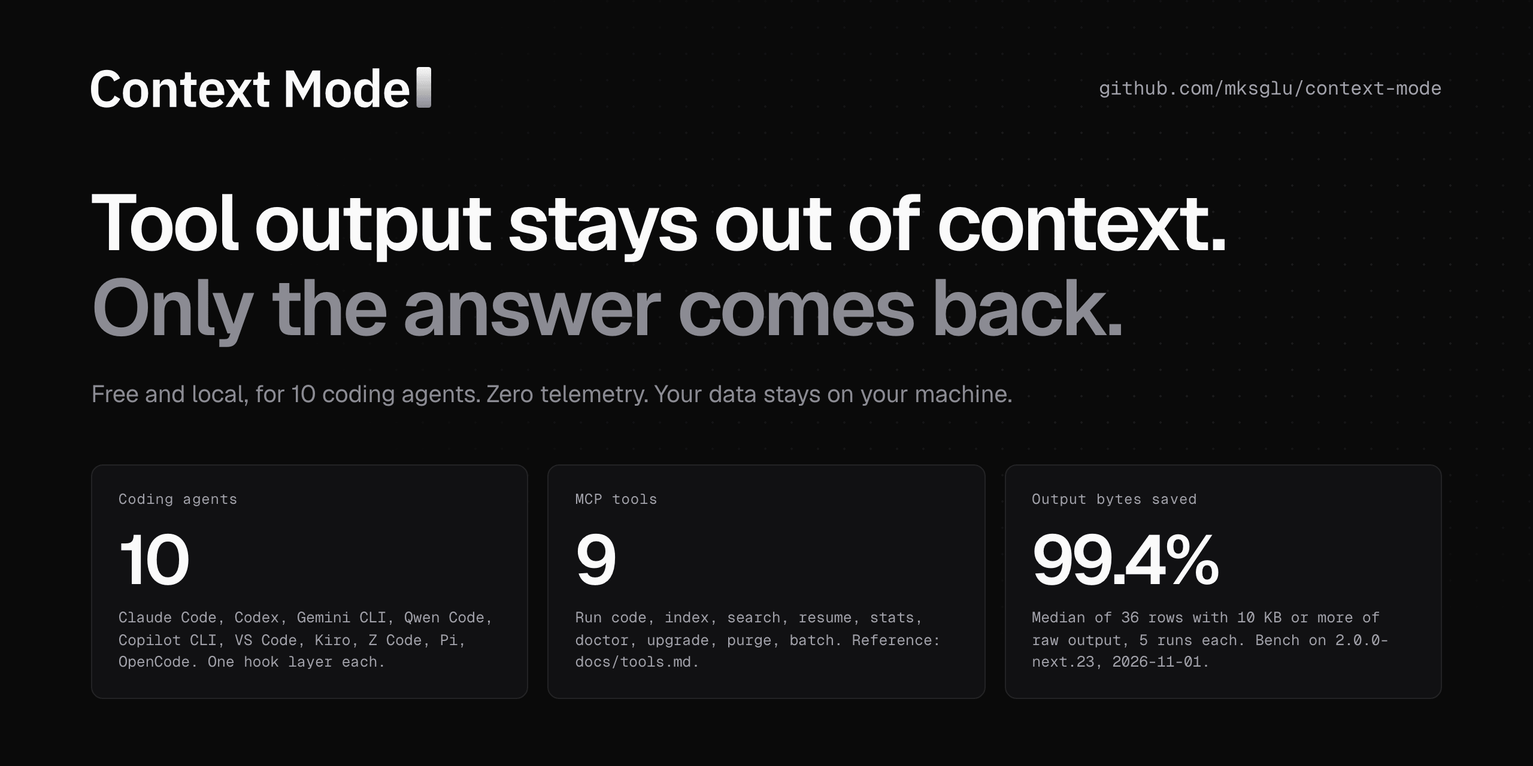
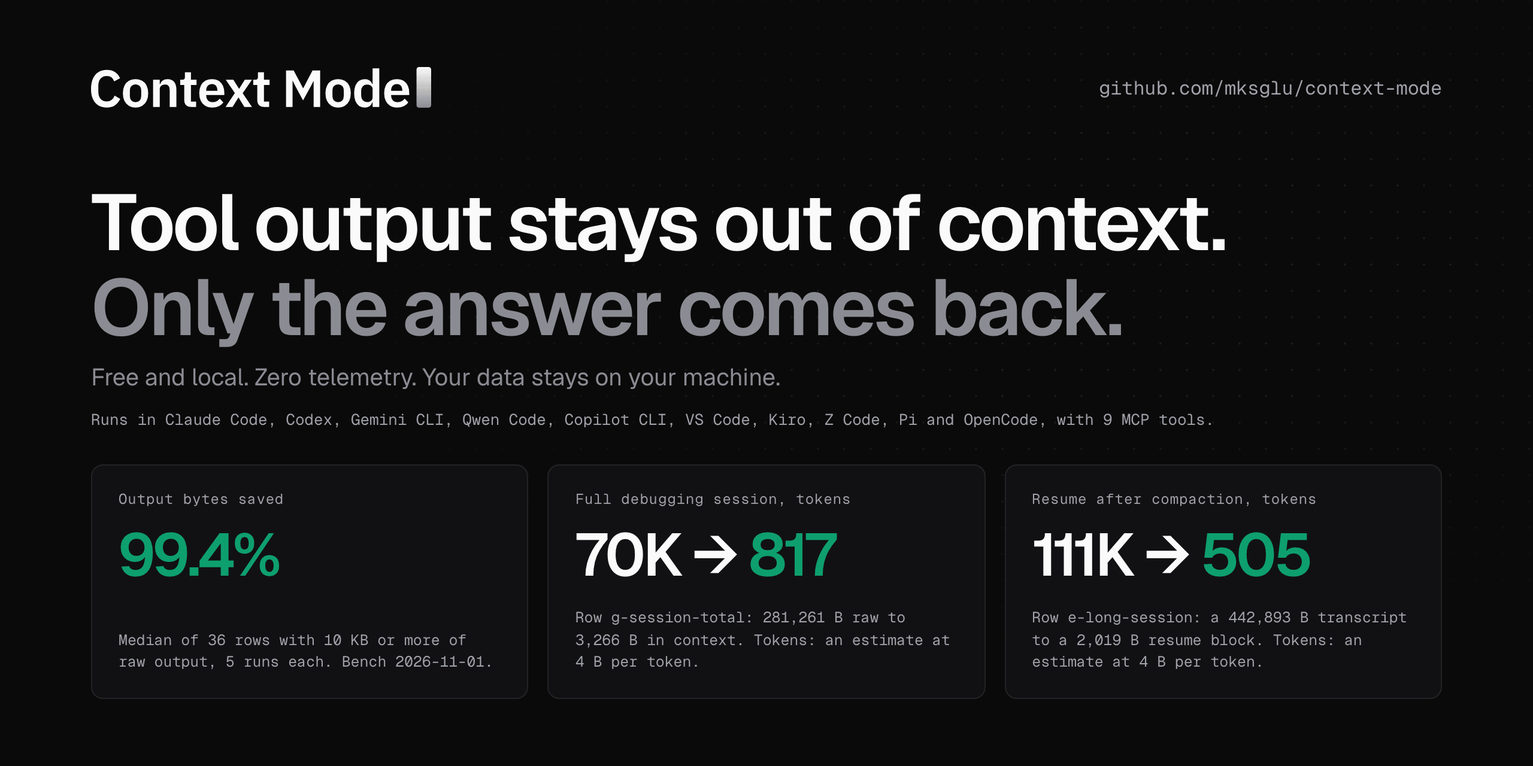
docs(readme): guide links go to contextmode.ai, 29 links out, measured hero tiles (D-README-LINKS-2, D-README-HERO-2)
Every docs link points to the published guides under
contextmode.ai/docs/engine with UTM tags, one per topic. Per-agent
Guide links, repo switch links, the Community docs line and per-row
table links go; each table gets one source line. build/readme-links.mjs
caps links out at README_MAX_LINKS (30) and fails on any repo docs page.

Links out: 98 -> 29 (114 -> 45 with page anchors); repo docs links 22 -> 0.

Hero: three measured tiles from bench/results/2026-11-01-darwin-arm64.json
(99.4% median of 36 rows; g-session-total 70K -> 817 tokens;
e-long-session 111K -> 505 tokens, 4 B per token estimate). Agents and
tools move to one small line. PNG: light 69,387 -> 78,377 B,
dark 67,555 -> 75,893 B.

diff --git a/docs/assets/readme/src/hero.html b/docs/assets/readme/src/hero.html
@@ -6,22 +6,24 @@
 .nav{position:absolute;left:76px;right:76px;top:56px;display:flex;align-items:center;justify-content:space-between}
 .url{font-family:var(--mono);font-size:16px;color:var(--muted)}
 .h1{position:absolute;left:76px;top:150px;font-size:66px}
-.lead{position:absolute;left:76px;top:314px;font-size:20px;line-height:1.5;color:var(--fg2)}
+.lead{position:absolute;left:76px;top:300px;font-size:20px;line-height:1.5;color:var(--fg2)}
 .tiles{position:absolute;left:76px;right:76px;bottom:56px;display:grid;grid-template-columns:repeat(3,1fr);gap:16px}
 .tile{background:var(--card);border:1px solid var(--card-b);border-radius:10px;padding:20px 22px;height:196px;display:flex;flex-direction:column}
 .k{font-family:var(--mono);font-size:12px;letter-spacing:.04em;color:var(--muted)}
-.n{font-weight:600;font-size:58px;letter-spacing:-.045em;line-height:1;color:var(--fg);margin-top:14px}
+.n{font-weight:600;font-size:50px;white-space:nowrap;letter-spacing:-.045em;line-height:1;color:var(--fg);margin-top:14px}
 .n i{font-style:normal;color:var(--save)}
+.small{position:absolute;left:76px;right:76px;top:342px;font-family:var(--mono);font-size:13px;color:var(--muted)}
 .r{font-family:var(--mono);font-size:12.5px;line-height:1.5;color:var(--muted);margin-top:auto}
 </style></head><body>
 <main class="art" id="art"><div class="dots"></div>
 <div class="nav"><img class="wm" id="wm" alt="Context Mode"><span class="url">github.com/mksglu/context-mode</span></div>
 <div class="h h1">Tool output stays out of context.<br><em>Only the answer comes back.</em></div>
-<div class="lead">Free and local, for 10 coding agents. Zero telemetry. Your data stays on your machine.</div>
+<div class="lead">Free and local. Zero telemetry. Your data stays on your machine.</div>
+<div class="small">Runs in Claude Code, Codex, Gemini CLI, Qwen Code, Copilot CLI, VS Code, Kiro, Z Code, Pi and OpenCode, with 9 MCP tools.</div>
 <div class="tiles">
- <div class="tile" data-box><div class="k">Coding agents</div><div class="n">10</div><div class="r">Claude Code, Codex, Gemini CLI, Qwen Code, Copilot CLI, VS Code, Kiro, Z Code, Pi, OpenCode. One hook layer each.</div></div>
- <div class="tile" data-box><div class="k">MCP tools</div><div class="n">9</div><div class="r">Run code, index, search, resume, stats, doctor, upgrade, purge, batch. Reference: docs/tools.md.</div></div>
- <div class="tile" data-box><div class="k">Output bytes saved</div><div class="n">99.4%</div><div class="r">Median of 36 rows with 10 KB or more of raw output, 5 runs each. Bench on 2.0.0-next.23, 2026-11-01.</div></div>
+ <div class="tile" data-box><div class="k">Output bytes saved</div><div class="n"><i>99.4%</i></div><div class="r">Median of 36 rows with 10 KB or more of raw output, 5 runs each. Bench 2026-11-01.</div></div>
+ <div class="tile" data-box><div class="k">Full debugging session, tokens</div><div class="n">70K → <i>817</i></div><div class="r">Row g-session-total: 281,261 B raw to 3,266 B in context. Tokens: an estimate at 4 B per token.</div></div>
+ <div class="tile" data-box><div class="k">Resume after compaction, tokens</div><div class="n">111K → <i>505</i></div><div class="r">Row e-long-session: a 442,893 B transcript to a 2,019 B resume block. Tokens: an estimate at 4 B per token.</div></div>
 </div></main>
 <script>document.getElementById('wm').src='brand/wordmark-on-'+T+'.svg';</script>
 </body></html>

diff --git a/README.md b/README.md
@@ -10,7 +10,7 @@
 
 <picture>
   <source media="(prefers-color-scheme: dark)" srcset="docs/assets/readme/hero-dark.png">
-  <img src="docs/assets/readme/hero-light.png" alt="Context Mode plugin: free and local, for 10 coding agents, zero telemetry, the plugin keeps your data on your machine. 99.4% of output bytes saved (median of 36 rows with 10 KB or more of raw output).">
+  <img src="docs/assets/readme/hero-light.png" alt="Context Mode plugin: free and local, zero telemetry, the plugin keeps your data on your machine. Bench of 2026-11-01: 99.4% of output bytes saved (median of 36 rows with 10 KB or more of raw output). A full debugging session (row g-session-total): 281,261 B raw to 3,266 B in context, about 70K to 817 tokens (an estimate at 4 B per token). Resume after compaction (row e-long-session): a 442,893 B transcript to a 2,019 B block, about 111K to 505 tokens (an estimate). Runs in 10 coding agents with 9 MCP tools.">
 </picture>
 
 **Contents:** [Why](#why) · [Adoption](#adoption-stars-and-npm-downloads) · [Install](#install) · [Try it](#try-it) · [Use cases](#use-cases) · [Benchmarks](#benchmarks) · [How it works](#how-it-works) · [Tools](#tools) · [Security and privacy](#security-and-privacy) · [Context Mode Gateway](#context-mode-gateway) · [License](#license) · [Community](#community)
@@ -34,7 +34,7 @@ The Context Mode plugin runs that work in a local sandbox, keeps the full output
 <td width="50%"><a href="https://contextmode.ai/open-source/stats?utm_source=github&utm_medium=readme&utm_content=adoption#daily"><picture><source media="(prefers-color-scheme: dark)" srcset="docs/assets/readme/npm-downloads-dark.png"><img src="docs/assets/readme/npm-downloads-light.png" alt="Area chart of npm downloads per day for context-mode, the last 90 days. A daily job redraws it."></picture></a></td>
 </tr></table>
 
-Open the [interactive chart](https://contextmode.ai/open-source/stats?utm_source=github&utm_medium=readme&utm_content=adoption#daily) and point at a bar to read its value. Tabs there show days, weeks, months and years. Stars come from the GitHub GraphQL API (`starredAt`); npm downloads come from `api.npmjs.org/downloads/range`. The total up to 2026-10-29 is 683K npm downloads ([stats.json](stats.json) keeps a daily copy). A daily job redraws both charts.
+Open the [interactive chart](https://contextmode.ai/open-source/stats?utm_source=github&utm_medium=readme&utm_content=adoption#daily) and point at a bar to read its value. Tabs there show days, weeks, months and years. Stars come from the GitHub GraphQL API (`starredAt`); npm downloads come from `api.npmjs.org/downloads/range`. The total up to 2026-10-29 is 683K npm downloads (`stats.json` keeps a daily copy). A daily job redraws both charts.
 
 - **Hacker News.** "MCP server that reduces Claude Code context consumption by 98%" reached the front page with 570+ points and 107 comments on 2026-02-28 ([thread](https://news.ycombinator.com/item?id=47193064)).
 - **GitHub Trending.** A bot that watches GitHub Trending logged the repo there on 14 days from 2026-04-24 to 2026-10-17 ([uibm/trending-watcher](https://github.com/uibm/trending-watcher/issues?q=%22mksglu%2Fcontext-mode%22)).
@@ -61,7 +61,7 @@ claude plugin marketplace add mksglu/context-mode#release
 claude plugin install context-mode@context-mode
 ```
 Update: `claude plugin update context-mode@context-mode`. Check: `context-mode doctor --agents claude-code`. Remove: `context-mode setup --remove --agents claude-code`.
-Hooks: yes (package) · MCP: yes · Skills: yes · Guide: [docs/install/claude-code.md](docs/install/claude-code.md#install)
+Hooks: yes (package) · MCP: yes · Skills: yes
 </details>
 <details open id="install-codex"><summary><b>Codex</b></summary>
 
@@ -71,7 +71,7 @@ codex plugin add context-mode@context-mode
 ```
 Then run `context-mode setup --agents codex` once: it marks the plugin hooks as trusted in the Codex `config.toml`, so Codex runs them.
 Update: `codex plugin marketplace upgrade context-mode`. Check: `context-mode doctor --agents codex`. Remove: `context-mode setup --remove --agents codex`.
-Hooks: yes (hook file) · MCP: yes · Skills: yes · Guide: [docs/install/codex.md](docs/install/codex.md#install)
+Hooks: yes (hook file) · MCP: yes · Skills: yes
 </details>
 <details open id="install-gemini"><summary><b>Gemini CLI</b></summary>
 
@@ -79,7 +79,7 @@ Hooks: yes (hook file) · MCP: yes · Skills: yes · Guide: [docs/install/codex.
 gemini extensions install https://github.com/mksglu/context-mode --ref release
 ```
 Update: `gemini extensions update context-mode`. Check: `context-mode doctor --agents gemini`. Remove: `context-mode setup --remove --agents gemini`, then `gemini extensions uninstall context-mode`.
-Hooks: yes (package) · MCP: yes · Skills: yes · Guide: [docs/install/gemini.md](docs/install/gemini.md#install)
+Hooks: yes (package) · MCP: yes · Skills: yes
 </details>
 <details open id="install-qwen"><summary><b>Qwen Code</b></summary>
 
@@ -87,7 +87,7 @@ Hooks: yes (package) · MCP: yes · Skills: yes · Guide: [docs/install/gemini.m
 qwen extensions install https://github.com/mksglu/context-mode:context-mode --ref release
 ```
 Update: `qwen extensions update context-mode`. Check: `context-mode doctor --agents qwen`. Remove: `context-mode setup --remove --agents qwen`, then `qwen extensions uninstall context-mode`.
-Hooks: yes (package) · MCP: yes · Skills: yes · Guide: [docs/install/qwen.md](docs/install/qwen.md#install)
+Hooks: yes (package) · MCP: yes · Skills: yes
 </details>
 <details open id="install-pi"><summary><b>Pi</b></summary>
 
@@ -95,7 +95,7 @@ Hooks: yes (package) · MCP: yes · Skills: yes · Guide: [docs/install/qwen.md]
 pi install npm:context-mode@next
 ```
 Update: `pi update --extensions`. Check: `context-mode doctor --agents pi`. Remove: `context-mode setup --remove --agents pi`.
-Hooks: yes (the plugin's own event handlers) · MCP: ctx tools built into the plugin · Skills: yes · Guide: [docs/install/pi.md](docs/install/pi.md#install)
+Hooks: yes (the plugin's own event handlers) · MCP: ctx tools built into the plugin · Skills: yes
 </details>
 <details open id="install-opencode"><summary><b>OpenCode</b></summary>
 
@@ -103,7 +103,7 @@ Hooks: yes (the plugin's own event handlers) · MCP: ctx tools built into the pl
 opencode plugin add context-mode@next
 ```
 Update: `opencode plugin update`. Check: `context-mode doctor --agents opencode`. Remove: `opencode plugin remove context-mode@next`, then `context-mode setup --remove --agents opencode`.
-Hooks: yes (the plugin's own event handlers) · MCP: yes · Skills: yes · Guide: [docs/install/opencode.md](docs/install/opencode.md#install)
+Hooks: yes (the plugin's own event handlers) · MCP: yes · Skills: yes
 </details>
 <details open id="install-copilot-cli"><summary><b>Copilot CLI</b></summary>
 
@@ -112,7 +112,7 @@ npm i -g context-mode@next
 context-mode setup --agents copilot-cli
 ```
 Update: `context-mode upgrade`. Check: `context-mode doctor --agents copilot-cli`. Remove: `context-mode setup --remove --agents copilot-cli`.
-Hooks: yes (hook file) · MCP: yes · Skills: yes · Guide: [docs/install/copilot-cli.md](docs/install/copilot-cli.md#install)
+Hooks: yes (hook file) · MCP: yes · Skills: yes
 </details>
 <details open id="install-kiro"><summary><b>Kiro</b></summary>
 
@@ -121,7 +121,7 @@ npm i -g context-mode@next
 context-mode setup --agents kiro
 ```
 Update: `context-mode upgrade`. Check: `context-mode doctor --agents kiro`. Remove: `context-mode setup --remove --agents kiro`.
-Hooks: yes (hook file) · MCP: yes · Skills: yes · Guide: [docs/install/kiro.md](docs/install/kiro.md#install)
+Hooks: yes (hook file) · MCP: yes · Skills: yes
 </details>
 <details open id="install-vscode"><summary><b>VS Code (Copilot)</b></summary>
 
@@ -130,7 +130,7 @@ npm i -g context-mode@next
 context-mode setup --agents vscode
 ```
 Update: `context-mode upgrade`. Check: `context-mode doctor --agents vscode`. Remove: `context-mode setup --remove --agents vscode`.
-Hooks: yes (hook file) · MCP: yes · Skills: yes · Guide: [docs/install/vscode.md](docs/install/vscode.md#install)
+Hooks: yes (hook file) · MCP: yes · Skills: yes
 </details>
 <details open id="install-zcode"><summary><b>ZCode</b></summary>
 
@@ -139,10 +139,10 @@ npm i -g context-mode@next
 context-mode setup --agents zcode
 ```
 Update: `context-mode upgrade`. Check: `context-mode doctor --agents zcode`. Remove: `context-mode setup --remove --agents zcode`.
-Hooks: yes (hook file) · MCP: yes · Skills: yes · Guide: [docs/install/zcode.md](docs/install/zcode.md#install)
+Hooks: yes (hook file) · MCP: yes · Skills: yes
 </details>
 
-Already installed from GitHub on `main`? Each agent page has the steps to switch to the `release` ref: see "Already installed from GitHub?" in [Claude Code](docs/install/claude-code.md#already-installed-from-github), [Codex](docs/install/codex.md#already-installed-from-github), [Gemini CLI](docs/install/gemini.md#already-installed-from-github) and [Qwen Code](docs/install/qwen.md#already-installed-from-github).
+Already installed from GitHub on `main`? Switch Claude Code, Codex, Gemini CLI or Qwen Code to the `release` ref with the steps in [Already installed from GitHub?](https://contextmode.ai/docs/engine/install?utm_source=github&utm_medium=readme&utm_content=install-switch#already-installed-from-github).
 
 The npm route works for every agent:
 
@@ -152,7 +152,7 @@ context-mode setup
 ```
 
 `context-mode setup` is also the repair. It shows a plan, saves your earlier config, then applies the plan; when a step ends early, it restores the saved config.
-Uninstall: `context-mode setup --remove && npm rm -g context-mode`. Details: [docs/install/README.md](docs/install/README.md).
+Uninstall: `context-mode setup --remove && npm rm -g context-mode`.
 
 Restart the agent, then run `context-mode doctor` (or `/ctx-doctor` in the agent). Each check prints PASS or a fix command.
 
@@ -160,12 +160,12 @@ Every agent gets hooks, the MCP server and the plugin skills (files in `skills/`
 Hooks reach each agent in one of three ways: in the plugin package (Claude Code, Gemini CLI, Qwen Code), in a hook file (Codex, Copilot CLI, Kiro, VS Code, ZCode), or in a plugin inside the agent (OpenCode, Pi).
 We ran the real binary of each agent with the plugin hook: Claude Code, Codex, Gemini CLI, Qwen Code, Pi, OpenCode, Copilot CLI and ZCode. Each run used a clean temp home and a local test model, on 2.0.0-next.15.
 For VS Code and Kiro, the check covers the hook setup: VS Code runs the hook command with the documented payload, and kiro-cli 2.35.2 loads all 6 hook entries.
-CI runs setup, doctor, a hook and an MCP handshake for all 10 agents from the packed package on Linux, macOS and Windows. Record: [docs/architecture/release/HOOKS-FIRE.md](docs/architecture/release/HOOKS-FIRE.md).
+CI runs setup, doctor, a hook and an MCP handshake for all 10 agents from the packed package on Linux, macOS and Windows. Record: `docs/architecture/release/HOOKS-FIRE.md`.
 
 ## Try it
 
 Paste one of these prompts into your agent after the install. Each one ran once, live, in Claude Code 2.1.312, and its answer matched the source data ([evidence and rerun steps](bench/evidence/try-it-2026-11-02/README.md)). The headline numbers in [Benchmarks](#benchmarks) use the median of 5 runs. Other agents do the same job with the same tools: `ctx_execute`, `ctx_index` and `ctx_search`.
-Then run `/ctx-stats` in your agent to see how much output stayed out of the context. Every agent gets this command with the plugin skills ([skills/ctx-stats](skills/ctx-stats/SKILL.md)).
+Then run `/ctx-stats` in your agent to see how much output stayed out of the context. Every agent gets this command with the plugin skills (`skills/ctx-stats`).
 ```text
 On https://react.dev/reference/react/useEffect, show me the example that connects to a chat server and cleans up, and list the rules for the dependency array.
 ```
@@ -185,30 +185,32 @@ The hook sends WebFetch to the sandbox, and the agent reads ten stories from the
 
 ## Use cases
 
-Real tool output from public projects, run through Context Mode. Bench of 2026-11-01 on 2.0.0-next.23 (commit 16a4bcc5), median of 5 runs ([bench/results/2026-11-01-darwin-arm64.json](bench/results/2026-11-01-darwin-arm64.json)); each source is in [bench/fixtures/data/SOURCE.md](bench/fixtures/data/SOURCE.md).
+Real tool output from public projects, run through Context Mode. Bench of 2026-11-01 on 2.0.0-next.23 (commit 16a4bcc5), median of 5 runs.
 
 | What you do | Tool | Raw | Reaches the context | Saved |
 |---|---|---:|---:|---:|
-| [Read a browser page](bench/a-sandbox/README.md#a-devtools-mcp-snapshot) | Chrome DevTools MCP `take_snapshot` | 136,514 B | 463 B | 99.7% |
-| [List 40 issues](bench/a-sandbox/README.md#a-gh-issue-list-vite) | GitHub CLI `gh issue list --json` | 182,943 B | 850 B | 99.5% |
-| [List 25 pull requests with checks](bench/a-sandbox/README.md#a-gh-pr-list-vite) | GitHub CLI `gh pr list --json` | 195,471 B | 776 B | 99.6% |
-| [Look up library docs](bench/a-sandbox/README.md#a-context7-query-docs-vite) | Context7 `query-docs` | 6,917 B | 473 B | 93.2% |
-| [Run 1,106 tests](bench/a-sandbox/README.md#a-vitest-run-vite) | Vitest `vitest run --reporter=verbose` | 62,909 B | 429 B | 99.3% |
-| [Lint a source folder](bench/a-sandbox/README.md#a-biome-lint-vite) | Biome `biome lint --reporter=json` | 288,523 B | 577 B | 99.8% |
-| [Install a workspace](bench/a-sandbox/README.md#a-pnpm-install-vite) | pnpm `pnpm install --frozen-lockfile` | 14,988 B | 199 B | 98.7% |
-| [Install packages](bench/a-sandbox/README.md#a-npm-install-log) | npm `npm install --loglevel http` | 37,761 B | 435 B | 98.8% |
-| [Read container logs](bench/a-sandbox/README.md#a-docker-logs-mongo) | Docker `docker logs` | 60,374 B | 587 B | 99.0% |
-| [Plan 72 resources](bench/a-sandbox/README.md#a-terraform-plan) | Terraform `terraform plan` | 34,081 B | 166 B | 99.5% |
-| [Read 300 commits with file stats](bench/a-sandbox/README.md#a-git-log-stat-vite) | git `git log --stat` | 164,385 B | 268 B | 99.8% |
-| [Read an 89 KB source file](bench/f-hook-redirect/README.md#f-read-vite-config) | Read, sent to `ctx_execute` by the hook | 91,362 B | 375 B | 99.6% |
-| [Fetch a 265 KB docs page](bench/f-hook-redirect/README.md#f-webfetch-vite-docs) | WebFetch, sent to `ctx_index` and `ctx_search` | 271,731 B | 439 B | 99.8% |
-| [Fetch a 214 KB API reply](bench/f-hook-redirect/README.md#f-bash-curl-post) | curl in Bash, replaced after it runs | 219,175 B | 291 B | 99.9% |
-| [Print a 187 KB git log in Bash](bench/f-hook-redirect/README.md#f-bash-dump-post) | Bash, output replaced after it runs | 191,120 B | 204 B | 99.9% |
-| [Print the same git log through a host tool](bench/d-externalize/README.md#d-real-git-log) | Host tool output over the cap, indexed whole | 191,120 B | 2,842 B | 98.5% |
-| [Print a 214 KB GitHub API reply through a host tool](bench/d-externalize/README.md#d-real-github-json) | Host tool output over the cap, indexed whole | 219,175 B | 4,060 B | 98.1% |
-| [Read a 45 KB log file](bench/f-hook-redirect/README.md#f-read-large-file) | Read, sent to `ctx_execute` by the hook | 46,216 B | 371 B | 99.2% |
-| [Read a 60 KB source file](bench/f-hook-redirect/README.md#f-read-big-source) | Read, sent to `ctx_execute` by the hook | 61,576 B | 374 B | 99.4% |
-| [Debug for a full session: 8 outputs, 3 searches](bench/g-overhead/README.md#g-session-total) | All hooks and tools | 281,261 B | 3,266 B | 98.8% |
+| Read a browser page | Chrome DevTools MCP `take_snapshot` | 136,514 B | 463 B | 99.7% |
+| List 40 issues | GitHub CLI `gh issue list --json` | 182,943 B | 850 B | 99.5% |
+| List 25 pull requests with checks | GitHub CLI `gh pr list --json` | 195,471 B | 776 B | 99.6% |
+| Look up library docs | Context7 `query-docs` | 6,917 B | 473 B | 93.2% |
+| Run 1,106 tests | Vitest `vitest run --reporter=verbose` | 62,909 B | 429 B | 99.3% |
+| Lint a source folder | Biome `biome lint --reporter=json` | 288,523 B | 577 B | 99.8% |
+| Install a workspace | pnpm `pnpm install --frozen-lockfile` | 14,988 B | 199 B | 98.7% |
+| Install packages | npm `npm install --loglevel http` | 37,761 B | 435 B | 98.8% |
+| Read container logs | Docker `docker logs` | 60,374 B | 587 B | 99.0% |
+| Plan 72 resources | Terraform `terraform plan` | 34,081 B | 166 B | 99.5% |
+| Read 300 commits with file stats | git `git log --stat` | 164,385 B | 268 B | 99.8% |
+| Read an 89 KB source file | Read, sent to `ctx_execute` by the hook | 91,362 B | 375 B | 99.6% |
+| Fetch a 265 KB docs page | WebFetch, sent to `ctx_index` and `ctx_search` | 271,731 B | 439 B | 99.8% |
+| Fetch a 214 KB API reply | curl in Bash, replaced after it runs | 219,175 B | 291 B | 99.9% |
+| Print a 187 KB git log in Bash | Bash, output replaced after it runs | 191,120 B | 204 B | 99.9% |
+| Print the same git log through a host tool | Host tool output over the cap, indexed whole | 191,120 B | 2,842 B | 98.5% |
+| Print a 214 KB GitHub API reply through a host tool | Host tool output over the cap, indexed whole | 219,175 B | 4,060 B | 98.1% |
+| Read a 45 KB log file | Read, sent to `ctx_execute` by the hook | 46,216 B | 371 B | 99.2% |
+| Read a 60 KB source file | Read, sent to `ctx_execute` by the hook | 61,576 B | 374 B | 99.4% |
+| Debug for a full session: 8 outputs, 3 searches | All hooks and tools | 281,261 B | 3,266 B | 98.8% |
+
+Source: [bench/results/2026-11-01-darwin-arm64.json](bench/results/2026-11-01-darwin-arm64.json), one row per line; each input is named in `bench/fixtures/data/SOURCE.md`.
 
 The agent gets the part it asks for. The full output stays in the local index, and `ctx_search` reads it back.
 The Context7 row has 6,917 B of raw output, under the 10 KB line of the headline rule, so the headline leaves it out.
@@ -232,8 +234,8 @@ All 36 such rows, the six categories below: the plugin keeps a median of 99.4% o
 | f. Hook redirect | A big Read, curl or WebFetch sent to the sandbox | 7 | 99.8% |
 | g. Session total | One full scripted session | 1 | 98.8% |
 
-Search replies (category b) carry the matching text, so they save 77.2%. Category e (long sessions) is in [Longer sessions](#longer-sessions). The full file lists every row, small ones too: [bench/results/2026-11-01-darwin-arm64.md](bench/results/2026-11-01-darwin-arm64.md).
-Reproduce: `cd bench && node run.mjs`. Method and every data file: [bench/README.md](bench/README.md), [bench/evidence/](bench/evidence/README.md).
+Search replies (category b) carry the matching text, so they save 77.2%. Category e (long sessions) is in [Longer sessions](#longer-sessions). The full file lists every row, small ones too: `bench/results/2026-11-01-darwin-arm64.md`.
+Reproduce: `cd bench && node run.mjs`. Method, data files and rerun steps: [Benchmarks](https://contextmode.ai/docs/engine/benchmarks?utm_source=github&utm_medium=readme&utm_content=benchmarks).
 
 ### Longer sessions
 
@@ -246,18 +248,20 @@ Say you debug a slow test all afternoon. The agent reads files, runs the suite a
 
 Context Mode keeps the full output of each large tool call in `context.db` on your machine and gives the agent a small reply. At compaction, a snapshot of at most 2,048 B keeps the session state. After the compaction, the agent calls `ctx_resume` to read that snapshot back and `ctx_search` to find any earlier output by keyword.
 
-In the bench, a scripted session of 40 tool outputs and one compaction made a 442,893 B transcript, and the `ctx_resume` block that brought the agent back was 2,019 B (row [e-long-session](bench/e-continuity/README.md#e-long-session) in [the bench file](bench/results/2026-11-01-darwin-arm64.json)).
-In the same bench, one large log of 666,796 B put 3,380 B into the context, and the full log stayed in the index for `ctx_search` (row [d-synth-1m](bench/d-externalize/README.md#d-synth-1m)).
+In the bench, a scripted session of 40 tool outputs and one compaction made a 442,893 B transcript, and the `ctx_resume` block that brought the agent back was 2,019 B (row `e-long-session` in the bench file).
+In the same bench, one large log of 666,796 B put 3,380 B into the context, and the full log stayed in the index for `ctx_search` (row `d-synth-1m`).
 
 ### Speed
 
-Median of 5 runs, bench of 2026-11-01. Rows per agent and per query: [bench/results/2026-11-01-darwin-arm64.md](bench/results/2026-11-01-darwin-arm64.md).
+Median of 5 runs, bench of 2026-11-01.
 
 | Measure | Result |
 |---|---|
-| Hook time over a bare `node` start, per agent | 7.5 ms to 12.3 ms ([g-hook-kiro](bench/g-overhead/README.md#g-hook-kiro) to [g-hook-claude-code](bench/g-overhead/README.md#g-hook-claude-code)) |
-| `ctx_search`, 20 queries over 8 indexed files | 1.62 ms median, 6.70 ms max ([g-search-latency](bench/g-overhead/README.md#g-search-latency)) |
-| `ctx_index`, 3 real files, 625,649 B | 150 ms per MB ([g-index-per-mb](bench/g-overhead/README.md#g-index-per-mb)) |
+| Hook time over a bare `node` start, per agent | 7.5 ms to 12.3 ms |
+| `ctx_search`, 20 queries over 8 indexed files | 1.62 ms median, 6.70 ms max |
+| `ctx_index`, 3 real files, 625,649 B | 150 ms per MB |
+
+Source: rows `g-hook-kiro` to `g-hook-claude-code`, `g-search-latency` and `g-index-per-mb` of `bench/results/2026-11-01-darwin-arm64.md`, with every agent and query.
 
 ## How it works
 
@@ -272,7 +276,7 @@ Median of 5 runs, bench of 2026-11-01. Rows per agent and per query: [bench/resu
 4. The agent gets the part it asked for, and calls `ctx_search` when it wants more.
 5. After a compaction, the agent gets a short state block; each line points to the full record.
 
-Timeouts, chunk sizes, ranking and storage: [Engineering details](docs/how-it-works.md#engineering-details). Guide: [How it works](https://contextmode.ai/docs/engine/how-it-works?utm_source=github&utm_medium=readme&utm_content=how).
+Timeouts, chunk sizes, ranking and storage: [How it works](https://contextmode.ai/docs/engine/how-it-works?utm_source=github&utm_medium=readme&utm_content=how).
 
 ## Tools
 
@@ -288,13 +292,13 @@ Timeouts, chunk sizes, ranking and storage: [Engineering details](docs/how-it-wo
 | `ctx_upgrade` | Installs, upgrades or uninstalls; replaces old context-mode entries |
 | `ctx_purge` | Deletes indexed data by session, source or project |
 
-Full reference: [docs/tools.md](docs/tools.md).
+Full reference: [Tools](https://contextmode.ai/docs/engine/tools?utm_source=github&utm_medium=readme&utm_content=tools).
 
 Commands in the agent: `/ctx-stats` shows the `ctx_stats` result, `/ctx-doctor` runs `ctx_doctor` (send its report with a defect report), and `/ctx-upgrade` runs `ctx_upgrade`, then `ctx_doctor`.
 
 ## Security and privacy
 
-- The plugin keeps all its data on your machine, in `~/.context-mode`: one `context.db` per project. `ctx_purge` deletes it by session, source or project. Guide: [Security](https://contextmode.ai/docs/engine/security?utm_source=github&utm_medium=readme&utm_content=security).
+- The plugin keeps all its data on your machine, in `~/.context-mode`: one `context.db` per project. `ctx_purge` deletes it by session, source or project. Read the [Security guide](https://contextmode.ai/docs/engine/security?utm_source=github&utm_medium=readme&utm_content=security).
 - The plugin has zero telemetry: usage data, events and crash reports stay on your machine. It uses the network at these call sites, each one started by you or your agent:
   - `ctx_index` of a URL the agent asks for: `src/core/sandbox/fetch.ts`. It blocks private and link-local addresses, checks each address the host name points to, connects to the address it checked, and checks again at each redirect.
   - `context-mode doctor`: `git ls-remote` to the release repository, to check for a new version (`src/core/ops/doctor-env.ts`).
@@ -320,13 +324,13 @@ With the Gateway on, your requests pass through its server; the plugin keeps its
 
 <a href="docs/assets/readme/gateway/live.mp4"><img src="docs/assets/readme/gateway/live.webp" width="100%" alt="Gateway Live screen during a session: money saved, bytes kept out per request, history kept and sent, and a feed of each request with its cost and saving"></a>
 
-**Live.** One session as it runs: money saved this session, bytes kept out per request, history kept and sent, and a feed of each request with its cost and saving. [Full video](docs/assets/readme/gateway/live.mp4)
+**Live.** One session as it runs: money saved this session, bytes kept out per request, history kept and sent, and a feed of each request with its cost and saving. Click the image for the full video.
 
-Docs: [How saving works](https://contextmode.ai/docs/how-saving-works?utm_source=github&utm_medium=readme&utm_content=live), [Recall](https://contextmode.ai/docs/recall?utm_source=github&utm_medium=readme&utm_content=live), [Session resume](https://contextmode.ai/docs/session-resume?utm_source=github&utm_medium=readme&utm_content=live)
+Docs: [How saving works](https://contextmode.ai/docs/how-saving-works?utm_source=github&utm_medium=readme&utm_content=live)
 
 <table>
-<tr><td width="50%"><a href="docs/assets/readme/gateway/overview.webp"><img src="docs/assets/readme/gateway/overview-1200.webp" alt="Gateway Overview: money saved, AI spend, prompt-cache discount and cost per request over 30 days"></a><br><b>Overview.</b> Your spend and what the Gateway saved, per day, in one view.<br>Docs: <a href="https://contextmode.ai/docs/how-saving-works?utm_source=github&utm_medium=readme&utm_content=overview">How saving works</a></td><td width="50%"><a href="docs/assets/readme/gateway/analytics.webp"><img src="docs/assets/readme/gateway/analytics-1200.webp" alt="Gateway Analytics: saved money over time, split by source"></a><br><b>Analytics.</b> Where each saving comes from: hidden tools, archived old results, large outputs kept in the archive and trimmed context.<br>Docs: <a href="https://contextmode.ai/docs/how-saving-works?utm_source=github&utm_medium=readme&utm_content=analytics">How saving works</a>, <a href="https://contextmode.ai/docs/active-context?utm_source=github&utm_medium=readme&utm_content=analytics">Active Context</a></td></tr>
-<tr><td width="50%"><a href="docs/assets/readme/gateway/spend.webp"><img src="docs/assets/readme/gateway/spend-1200.webp" alt="Gateway Spend: spend per day by model, cost per request and cache hit rate"></a><br><b>Spend.</b> Spend per day and per model, cost per request and the cache hit rate, to help you plan a budget.<br>Docs: <a href="https://contextmode.ai/docs/prompt-caching?utm_source=github&utm_medium=readme&utm_content=spend">Prompt caching</a></td><td width="50%"><a href="docs/assets/readme/gateway/memory.webp"><img src="docs/assets/readme/gateway/memory-top-1200.webp" alt="Gateway Memory: money saved by Recall and searches per day"></a><br><b>Memory.</b> Facts and decisions carry across sessions and agents. The screen shows what Recall saved and how many searches found an answer.<br>Docs: <a href="https://contextmode.ai/docs/memory?utm_source=github&utm_medium=readme&utm_content=memory">Memory</a>, <a href="https://contextmode.ai/docs/recall?utm_source=github&utm_medium=readme&utm_content=memory">Recall</a></td></tr>
+<tr><td width="50%"><a href="docs/assets/readme/gateway/overview.webp"><img src="docs/assets/readme/gateway/overview-1200.webp" alt="Gateway Overview: money saved, AI spend, prompt-cache discount and cost per request over 30 days"></a><br><b>Overview.</b> Your spend and what the Gateway saved, per day, in one view.<br>Docs: <a href="https://contextmode.ai/docs/how-saving-works?utm_source=github&utm_medium=readme&utm_content=overview">How saving works</a></td><td width="50%"><a href="docs/assets/readme/gateway/analytics.webp"><img src="docs/assets/readme/gateway/analytics-1200.webp" alt="Gateway Analytics: saved money over time, split by source"></a><br><b>Analytics.</b> Where each saving comes from: hidden tools, archived old results, large outputs kept in the archive and trimmed context.<br>Docs: <a href="https://contextmode.ai/docs/how-saving-works?utm_source=github&utm_medium=readme&utm_content=analytics">How saving works</a></td></tr>
+<tr><td width="50%"><a href="docs/assets/readme/gateway/spend.webp"><img src="docs/assets/readme/gateway/spend-1200.webp" alt="Gateway Spend: spend per day by model, cost per request and cache hit rate"></a><br><b>Spend.</b> Spend per day and per model, cost per request and the cache hit rate, to help you plan a budget.<br>Docs: <a href="https://contextmode.ai/docs/prompt-caching?utm_source=github&utm_medium=readme&utm_content=spend">Prompt caching</a></td><td width="50%"><a href="docs/assets/readme/gateway/memory.webp"><img src="docs/assets/readme/gateway/memory-top-1200.webp" alt="Gateway Memory: money saved by Recall and searches per day"></a><br><b>Memory.</b> Facts and decisions carry across sessions and agents. The screen shows what Recall saved and how many searches found an answer.<br>Docs: <a href="https://contextmode.ai/docs/memory?utm_source=github&utm_medium=readme&utm_content=memory">Memory</a></td></tr>
 <tr><td width="50%"><a href="docs/assets/readme/gateway/skills.webp"><img src="docs/assets/readme/gateway/skills-1200.webp" alt="Gateway Skills: import from GitHub and the list of installed skills"></a><br><b>Skills.</b> Add a skill once and all your clients use it when it helps. Import skills from GitHub and see the installed ones.<br>Docs: <a href="https://contextmode.ai/docs/skills?utm_source=github&utm_medium=readme&utm_content=skills">Skills</a></td><td width="50%"><a href="docs/assets/readme/gateway/protect.webp"><img src="docs/assets/readme/gateway/protect-1200.webp" alt="Gateway Protect: a new command rule that blocks terraform destroy"></a><br><b>Protect.</b> Rules that check each shell command before it runs. Here, a rule that stops <code>terraform destroy</code>.<br>Docs: <a href="https://contextmode.ai/docs/protect?utm_source=github&utm_medium=readme&utm_content=protect">Protect</a></td></tr>
 </table>
 
@@ -353,16 +357,16 @@ Source: [contextmode.ai/docs](https://contextmode.ai/docs/how-saving-works?utm_s
 
 | Feature | What it does | What you get | Details |
 |---|---|---|---|
-| Context Saving | Folds old tool output, runs data work as code (Thinking in Code), trims tool schemas, places cache marks | A tool output over 2,048 B becomes a short pointer, with the full copy archived | Saves the most on sessions with many tool calls ([How saving works](https://contextmode.ai/docs/how-saving-works?utm_source=github&utm_medium=readme&utm_content=table)) |
-| Recall | The model sees recent work and an index of older work; the agent searches the archive for the rest | Gateway, Claude Code, Opus 5.5, 200K window, 2026-10-04: mean cost per session $4.8627 to $3.0353 (-37.6% in dollars, [ab.json](https://contextmode.ai/benchmarks/recall/200k-r2/ab.json?utm_source=github&utm_medium=readme&utm_content=table)) | Cost measured in Claude Code on Claude Opus 5.5 |
+| Context Saving | Folds old tool output, runs data work as code (Thinking in Code), trims tool schemas, places cache marks | A tool output over 2,048 B becomes a short pointer, with the full copy archived | Saves the most on sessions with many tool calls |
+| Recall | The model sees recent work and an index of older work; the agent searches the archive for the rest | Gateway, Claude Code, Opus 5.5, 200K window, 2026-10-04: mean cost per session $4.8627 to $3.0353 (-37.6% in dollars, `ab.json` below) | Cost measured in Claude Code on Claude Opus 5.5 |
 | Memory | Each fact keeps two times: when it was true and when the Gateway learned it | Claude Code and Codex on one account share one store, tested end to end | The memory block goes into the first request of a new session |
 | Skills | A skill catalog on the Gateway for your account; it loads the skill that matches your message | The matching skill loads on the message that needs it | Import skills from GitHub; a loaded skill joins the prompt in full |
-| Search | Searches the prompts, commands and tool output that passed through, in the console and as an agent tool | Find any past prompt, command or tool output, from the console or your agent | The console searches the first 4,000 characters of each tool result ([Search](https://contextmode.ai/docs/search?utm_source=github&utm_medium=readme&utm_content=table)) |
-| Session resume | One command rebuilds a conversation as a native Claude Code or Codex session | Continue a conversation in Claude Code or Codex | Restores the text, tool names and a summary; the command is valid for 15 minutes ([Session resume](https://contextmode.ai/docs/session-resume?utm_source=github&utm_medium=readme&utm_content=table)) |
-| Active Context | Sets how much a thread carries before its oldest parts move to the archive: 200K, 500K or 1M tokens | Pick the window size per thread | An image older than the kept part becomes a short text note ([Active Context](https://contextmode.ai/docs/active-context?utm_source=github&utm_medium=readme&utm_content=table)) |
-| Instructions | One text of at most 4,096 characters that tells every agent how to answer you | Read from the provider cache after the first request | Sets how the agent writes to you ([Instructions](https://contextmode.ai/docs/instructions?utm_source=github&utm_medium=readme&utm_content=table)) |
+| Search | Searches the prompts, commands and tool output that passed through, in the console and as an agent tool | Find any past prompt, command or tool output, from the console or your agent | The console searches the first 4,000 characters of each tool result |
+| Session resume | One command rebuilds a conversation as a native Claude Code or Codex session | Continue a conversation in Claude Code or Codex | Restores the text, tool names and a summary; the command is valid for 15 minutes |
+| Active Context | Sets how much a thread carries before its oldest parts move to the archive: 200K, 500K or 1M tokens | Pick the window size per thread | An image older than the kept part becomes a short text note |
+| Instructions | One text of at most 4,096 characters that tells every agent how to answer you | Read from the provider cache after the first request | Sets how the agent writes to you |
 | Protect | A tool-call firewall: checks shell commands, file reads and writes, web fetches and tool-server calls by what they do | Each call checked before it runs | Reads the call itself, so keep your agent's sandbox on for script files and paths built at run time; opt-in |
-| Prompt caching | Keeps requests cache-friendly: cache marks on the fixed part of the prompt and a cache for fetched pages | Inside the measured costs above | Uses up to 4 cache marks, the provider's maximum ([Prompt caching](https://contextmode.ai/docs/prompt-caching?utm_source=github&utm_medium=readme&utm_content=table)) |
+| Prompt caching | Keeps requests cache-friendly: cache marks on the fixed part of the prompt and a cache for fetched pages | Inside the measured costs above | Uses up to 4 cache marks, the provider's maximum |
 | Live and Analytics | Shows each request and what the Gateway saved, as it happens and over time | See each request and its saving, live and over time | Covers every request that passes through the Gateway |
 
 </details>
@@ -376,11 +380,11 @@ Gateway cost against Claude Code alone, Claude Opus 5.5, mean dollars per sessio
 Apps: Claude Code, Claude Desktop, Codex, Codex Desktop, T3 Code, OpenCode and Pi.
 Setup is one command, `npx @context-mode/cli`. It signs you in to your Gateway account, which has its own subscription, and writes one config change per agent (the Gateway CLI needs Node 20.12 or later, from its npm `engines` field; the plugin needs Node 24.15.0).
 The Gateway routes to Anthropic and OpenAI. The Gateway sends your requests to its server on the way to the model. It keeps a searchable record of your sessions for Recall and Search, and masks secrets and e-mail addresses when it reads archived output back. Its privacy page is at [contextmode.ai/privacy](https://contextmode.ai/privacy?utm_source=github&utm_medium=readme&utm_content=privacy).
-Keep your agent's own sandbox on next to Protect. More at [contextmode.ai](https://contextmode.ai/?utm_source=github&utm_medium=readme&utm_content=more).
+Keep your agent's own sandbox on next to Protect.
 
 ## License
 
-[Elastic License 2.0](LICENSE) (ELv2), a source-available license. You may use, copy, change and share the code, and use it at work, free of charge.
+Elastic License 2.0 (ELv2, the `LICENSE` file), a source-available license. You may use, copy, change and share the code, and use it at work, free of charge.
 The license keeps three uses for the licensor:
 
 1. Offering the software to others as a hosted or managed service that gives them a large part of its features.
@@ -391,9 +395,6 @@ We chose ELv2 so the source stays open to all and the hosted service stays with 
 
 ## Community
 
-Report a defect on [Discord](https://discord.gg/DCN9jUgN5v) with the full `/ctx-doctor` report.
-The maintainer writes every change; send ideas and defect reports on Discord.
-
-Docs: [docs/install/README.md](docs/install/README.md) (install, options, uninstall), [docs/how-it-works.md](docs/how-it-works.md), [docs/algorithms.md](docs/algorithms.md) (search, ranking, size limits, deny rules), [docs/tools.md](docs/tools.md), [bench/evidence/](bench/evidence/README.md).
+The maintainer writes every change. Send ideas, and defect reports with the full `/ctx-doctor` report, on Discord.
 
 **Videos.** [Better Stack on Context Mode](https://www.youtube.com/watch?v=QUHrntlfPo4). Make your own video and share it on [Discord](https://discord.gg/DCN9jUgN5v); we add videos over 10K views here.

diff --git a/docs/architecture/modules/DEVIATIONS.md b/docs/architecture/modules/DEVIATIONS.md
@@ -666,3 +666,5 @@ One row per deviation found while implementing or verifying against the design. 
 | 2026-11-02 | `README.md` (top blockquote, ## Context Mode Gateway intro, new two-row product table, Overview caption), `tests/0014-repo-hygiene.test.mjs` (D-README-GW-NAME-1) | Owner review: "readmede gateway in paid oldugunu yazmadan, oss community, vercel, linear felan ya da rakipler nasil adlandiriyorsa sen de o sekilde adlandir paid diyerek urkutme kimseyi ancak bunun ucretsiz olmadigini bilmeleri gerek ve FREE'den ayri bir urun oldugunu bilmeleri gerek". Research in r4-notes/gw-naming.md: PostHog, Langfuse, Meilisearch, Infisical, Appwrite, n8n and Plausible say "Cloud"; Supabase and Cal.com say "hosted platform"; Vercel and Linear use plan names and leave out the word "paid". | The blockquote and the section intro now say "a separate hosted service with its own account and subscription"; a two-row table puts the free Context Mode plugin next to Context Mode Gateway (Billing: Free / Subscription, separate from the plugin). The calm-text test now also bans paid, prices, upgrade, trial, buy, purchase, hobby, business, basic, "credit card", "paid plan", "per seat" and "per user", and asserts the positive terms and the table. The plugin row says "Context Mode plugin", since ELv2 text says "source open on GitHub" (D-README-PRIVACY-1). | Open-core peers name the hosted product a hosted or cloud service beside the free one; the reader and an AI agent see two products and a subscription, with no price, plan or quota in the README. |
 | 2026-11-02 | `README.md` (badge row, count line, tagline, Why, Adoption cell and link line, Install intro, Gateway setup line), `docs/assets/readme/src/render.mjs`, `docs/assets/readme/npm-downloads-{light,dark}.png`, `tests/0014-repo-hygiene.test.mjs` (D-README-COUNT-1) | Owner review: "Adaption cok altlarda kalmis" and "FREE'den ayri bir urun oldugunu bilmeleri gerek". A human and an AI-agent review of the README found: the npm/dy badge (last year) and the 683K total read as two different counts; six badges read like an ad; the tagline "free forever" sat next to a separate hosted Gateway; the 2x2 npm grid was too small in a half-width cell. | Badge row holds npm downloads (shields npm/dt, all time), stars, Discord and license; Hacker News and Trending stay in the Adoption bullets. A count line under the badges names 33K stars and 683K npm downloads with the stats.json date and links Adoption. The tagline and the Why bullet say "The plugin is free forever"; Why names "The Context Mode plugin". The npm cell shows one daily chart; the link line says to open the interactive chart and point at a bar. The Install intro starts with the tag line; the Gateway setup line names its own subscription. Kept: the Contents line order (Adoption is second) and "Zero telemetry" (a guard in tests/0008 names it). |
 | 2026-11-02 | `README.md` (Install, Try it, How it works, Tools, Security and privacy, Community), `tests/0014-repo-hygiene.test.mjs` (D-README-LINKS-1) | Owner review of 65a8bdfc: "Docs linklerini dump etme ilgili ve alakali yerlere ilgili ve alakali linkler ekle sadece bogma userleri linklerle. YT video kisminda da bogma aynisini yap. thumbnail e gerek yok." | Each of Install, How it works and Security and privacy keeps one contextmode.ai guide link (install, how-it-works, security); Try it, Tools and the Community guide list lose theirs, and Community shows the repo docs line again. The Videos line is one short line: the Better Stack video, then an invitation to share a video on Discord, with videos over 10K views added here. A test pins the three guide links and the short Videos line. | A reader sees the one guide that answers the next question at that point; the page stays light. |
+| 2026-11-02 | `README.md` (agent lines, Install switch line, Use cases, Benchmarks, Speed, How it works, Tools, Gateway, License, Community), `build/readme-agents.mjs`, `build/readme-links.mjs`, `tests/0014-repo-hygiene.test.mjs`, `tests/0018-build.test.mjs`, `tests/0023-install-docs.test.mjs` (D-README-LINKS-2) | Owner: "readmeki docslarin linkleri github reposundan alinmis linkler ben contextmode.ai de yayinladiklarimizdan bahsetmistim ve cok sayida alakasiz ilgisiz link eklemissin"; "bu kadar link olmasin". | Every docs link goes to the published guides under contextmode.ai/docs/engine with UTM tags: one each for Install (plus one switch link to #already-installed-from-github), Benchmarks, How it works, Tools and Security. The per-agent Guide links, the four repo switch links, the Community docs line, the per-row bench links in Use cases and Speed and the per-row links of the Gateway feature table go; each table gets one source line. Each Gateway screen keeps one docs link. `build/readme-links.mjs` caps links out at README_MAX_LINKS (30) and a test fails on any link to a repo docs page. | Links out went from 98 to 29 (114 to 45 with page anchors); repo docs links from 22 to 0. The reader gets one link where the next step is, and the site guides carry the funnel tags. |
+| 2026-11-02 | `docs/assets/readme/src/hero.html`, `docs/assets/readme/hero-light.png`, `docs/assets/readme/hero-dark.png`, `README.md` (hero alt), `tests/0014-repo-hygiene.test.mjs` (D-README-HERO-2) | Owner: "image de su 99.4 rakami disindakilar business value katmiyor burada bize data-oriented degil ve marketing olarak act alinca oss icin uygun degil kocaman 10 yaziyor kime ne?" | Three measured tiles from bench/results/2026-11-01-darwin-arm64.json, each naming its row: 99.4% output bytes saved (median of 36 rows of 10 KB or more); full debugging session 70K → 817 tokens (g-session-total, 281,261 B to 3,266 B); resume after compaction 111K → 505 tokens (e-long-session, 442,893 B to 2,019 B). Tokens are an estimate at 4 B per token, stated on the tile. Agent names and the 9 MCP tools move to one small line. | Each big number is an outcome a developer can check in the bench file. PNG bytes: light 69,387 to 78,377, dark 67,555 to 75,893. |
